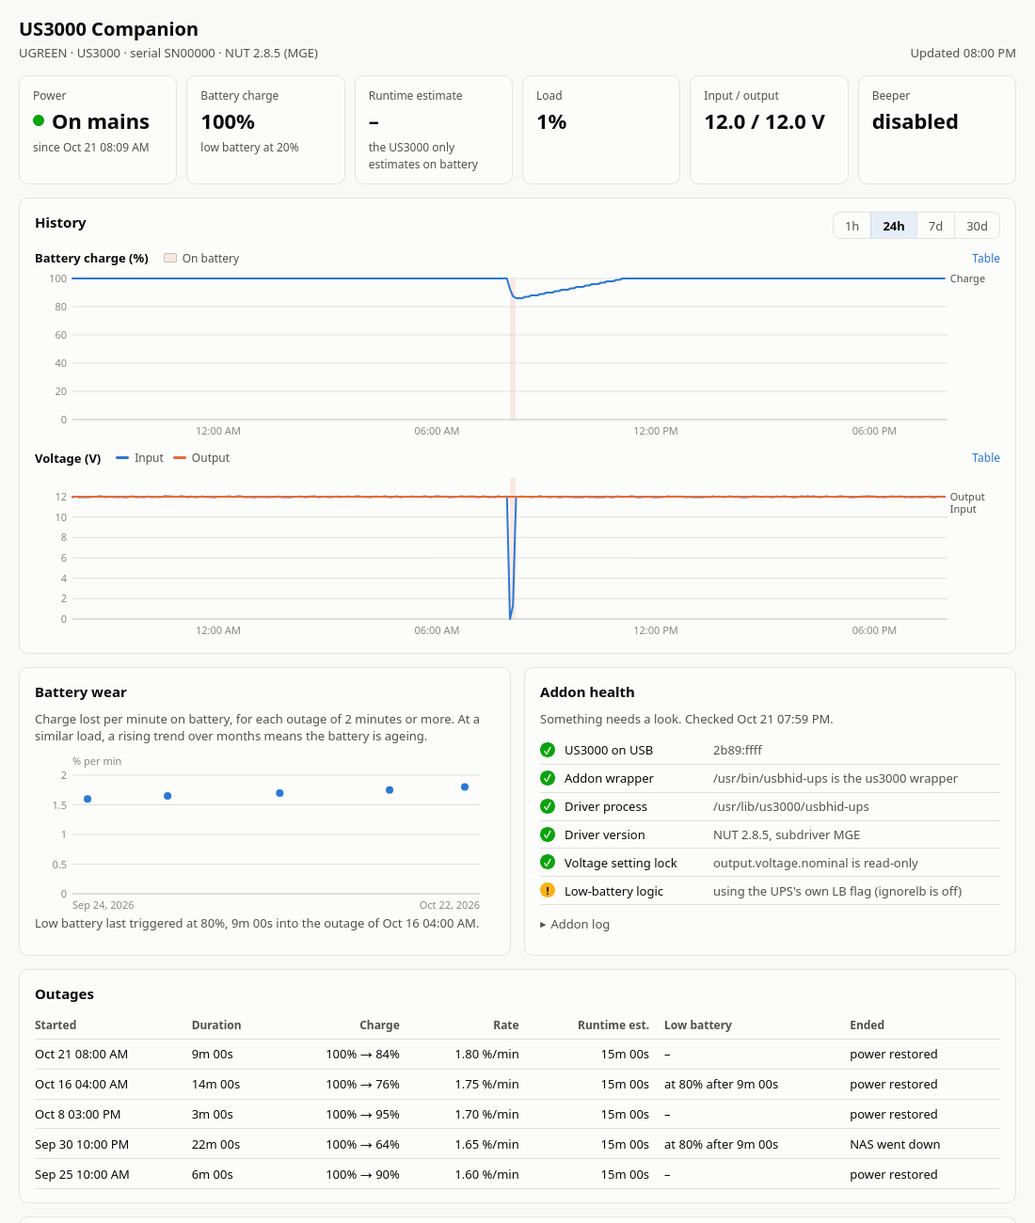
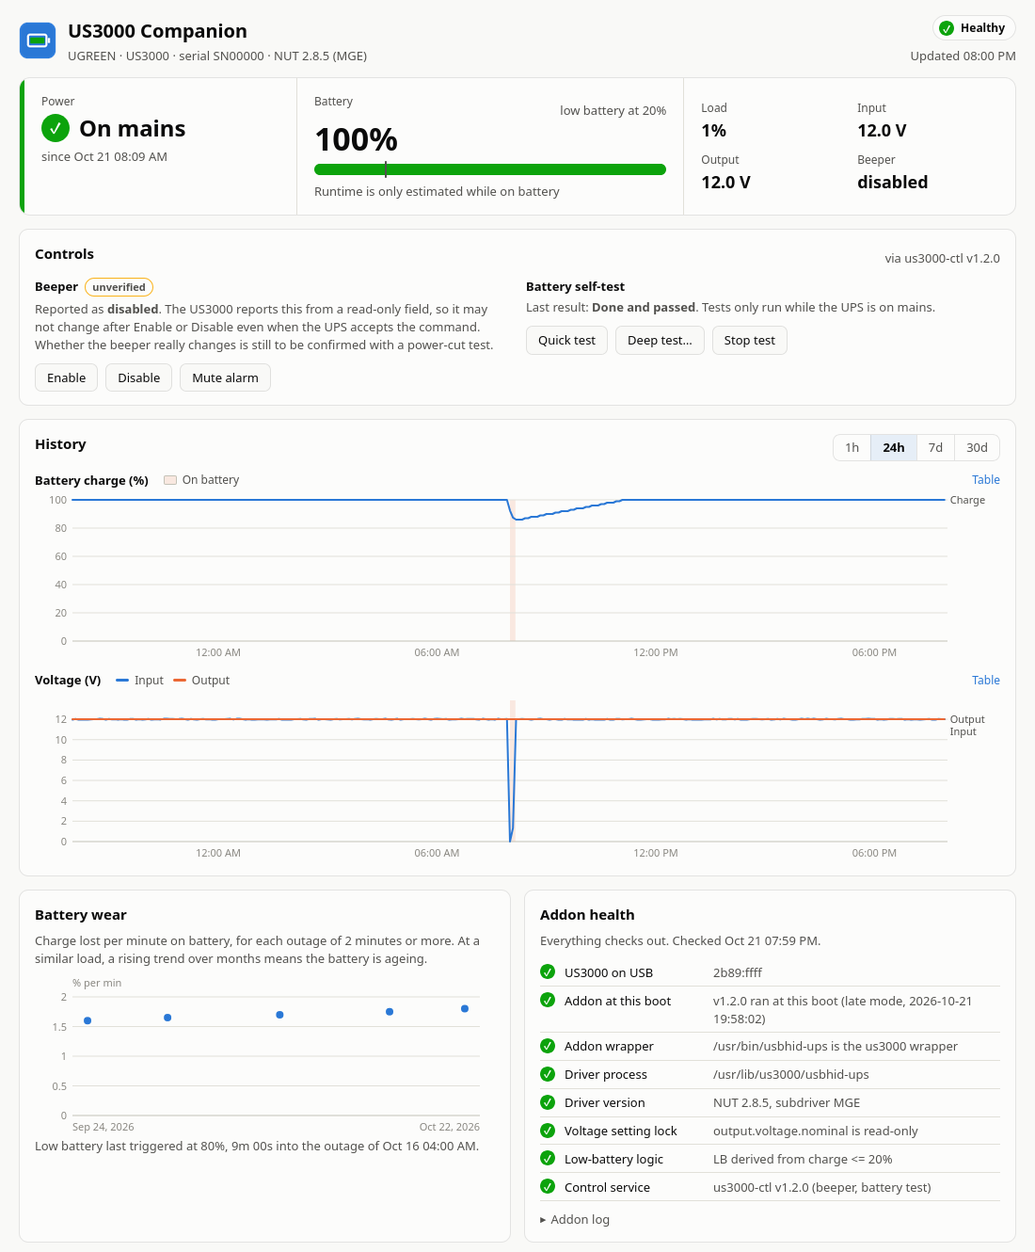
Companion 1.2.0: status hero, beeper caveat, first test result logged
- New status hero: power state with icon and accent, battery percentage
  with a gauge marking the low-battery threshold, runtime line, and compact
  load/voltage/beeper stats. Health badge in the header links to the health
  card; events get labelled colour badges.
- Beeper controls marked "unverified": on the US3000, NUT's MGE mapping
  writes the beeper to Battery.AudibleAlarmControl, which the firmware marks
  constant and reports from, so the status can't show a change.
- Collector logs a test result's first appearance (the US3000 only reports
  ups.test.result after its first test), seen live on 2026-10-22.
- README: v1.2.0 addon booted via RR and a quick self-test passed on real
  hardware; beeper finding documented; new screenshot.

Claude-Session: https://claude.ai/code/session_01K6FeL7PCCdrbSs5AQ2691g

diff --git a/companion/package/app/app.css b/companion/package/app/app.css
@@ -47,14 +47,66 @@ h3 { font-size: 13px; margin: 0; font-weight: 600; }
 .banner { background: var(--surface-1); border: 1px solid var(--critical); border-left-width: 4px;
   border-radius: 8px; padding: 10px 12px; margin: 0 0 14px; }
 
-.tiles { display: grid; grid-template-columns: repeat(auto-fit, minmax(150px, 1fr)); gap: 10px; margin-bottom: 14px; }
-.tile, .card { background: var(--surface-1); border: 1px solid var(--border); border-radius: 10px; }
-.tile { padding: 12px 14px; display: flex; flex-direction: column; gap: 2px; min-width: 0; }
-.tile .label { color: var(--text-secondary); font-size: 12px; }
-.tile .value { font-size: 22px; font-weight: 600; white-space: nowrap; overflow: hidden; text-overflow: ellipsis; }
-.tile .hint { font-size: 12px; }
-.state-line { display: flex; align-items: center; gap: 8px; }
-.dot { width: 12px; height: 12px; border-radius: 50%; background: var(--text-muted); flex: none; }
+.brand { display: flex; align-items: center; gap: 12px; }
+.brand img { border-radius: 9px; }
+.top-right { display: flex; flex-direction: column; align-items: flex-end; gap: 4px; }
+.health-chip { display: inline-flex; align-items: center; gap: 7px; padding: 4px 11px 4px 6px; border-radius: 999px;
+  border: 1px solid var(--border); background: var(--surface-1); color: var(--text-primary);
+  text-decoration: none; font-weight: 600; font-size: 12px; }
+.health-chip:hover { background: var(--accent-wash); }
+
+/* status hero */
+.hero { display: grid; grid-template-columns: minmax(200px, 1fr) minmax(240px, 1.4fr) minmax(220px, 1.2fr);
+  gap: 0; background: var(--surface-1); border: 1px solid var(--border); border-radius: 12px;
+  margin-bottom: 14px; overflow: hidden; }
+.hero > * { padding: 16px 18px; min-width: 0; }
+.hero > * + * { border-left: 1px solid var(--grid); }
+.hero .label, .hero dt { color: var(--text-secondary); font-size: 12px; }
+.hero-state { border-left: 5px solid var(--text-muted); display: flex; flex-direction: column; gap: 4px; }
+.hero-state[data-level="good"] { border-left-color: var(--good); }
+.hero-state[data-level="warning"] { border-left-color: var(--warning); }
+.hero-state[data-level="critical"] { border-left-color: var(--critical); }
+.state-line { display: flex; align-items: center; gap: 10px; }
+.state-icon { width: 30px; height: 30px; border-radius: 50%; flex: none; display: inline-flex; align-items: center;
+  justify-content: center; color: #fff; font-size: 16px; font-weight: 700; background: var(--text-muted); }
+.hero-state[data-level="good"] .state-icon { background: var(--good); }
+.hero-state[data-level="warning"] .state-icon { background: var(--warning); color: #0b0b0b; }
+.hero-state[data-level="critical"] .state-icon { background: var(--critical); }
+.state-text { font-size: 24px; font-weight: 650; line-height: 1.15; }
+.hero-battery .label-row { display: flex; justify-content: space-between; gap: 8px; }
+.hero-battery .big { font-size: 34px; font-weight: 650; line-height: 1.1; margin: 2px 0 8px; }
+.gauge { position: relative; height: 12px; border-radius: 6px; background: var(--grid); overflow: visible; }
+.gauge-fill { height: 100%; width: 0; border-radius: 6px; background: var(--good); transition: width .4s ease; }
+.gauge[data-level="warning"] .gauge-fill { background: var(--warning); }
+.gauge[data-level="critical"] .gauge-fill { background: var(--critical); }
+.gauge-low { position: absolute; top: -3px; bottom: -3px; width: 2px; background: var(--text-secondary); border-radius: 1px; }
+.hero-battery .hint { margin-top: 8px; }
+.hero-stats { margin: 0; display: grid; grid-template-columns: 1fr 1fr; gap: 10px 16px; align-content: center; }
+.hero-stats dd { margin: 2px 0 0; font-size: 18px; font-weight: 600; white-space: nowrap; overflow: hidden; text-overflow: ellipsis; }
+@media (max-width: 860px) {
+  .hero { grid-template-columns: 1fr 1fr; }
+  .hero-stats { grid-column: 1 / -1; grid-template-columns: repeat(4, 1fr); border-left: 0 !important; border-top: 1px solid var(--grid); }
+}
+@media (max-width: 520px) {
+  .hero { grid-template-columns: 1fr; }
+  .hero > * + * { border-left: 0; border-top: 1px solid var(--grid); }
+  .hero-stats { grid-template-columns: 1fr 1fr; }
+  .top-right { align-items: flex-start; }
+}
+.tag { display: inline-block; font-size: 11px; font-weight: 600; padding: 1px 7px; border-radius: 999px;
+  border: 1px solid var(--warning); color: var(--text-secondary); vertical-align: middle; margin-left: 4px; }
+
+/* event badges: colour plus a word, never colour alone */
+.badge { display: inline-block; font-size: 11px; font-weight: 650; padding: 1px 8px; border-radius: 999px;
+  border: 1px solid var(--border); white-space: nowrap; }
+.badge.good { border-color: var(--good); } .badge.warning { border-color: var(--warning); }
+.badge.critical { border-color: var(--critical); } .badge.info { border-color: var(--series-1); }
+.badge::before { content: ""; display: inline-block; width: 7px; height: 7px; border-radius: 50%; margin-right: 6px;
+  vertical-align: 1px; background: var(--text-muted); }
+.badge.good::before { background: var(--good); } .badge.warning::before { background: var(--warning); }
+.badge.critical::before { background: var(--critical); } .badge.info::before { background: var(--series-1); }
+
+.card { background: var(--surface-1); border: 1px solid var(--border); border-radius: 10px; }
 
 .card { padding: 14px 16px; margin-bottom: 14px; min-width: 0; }
 .card-head { display: flex; justify-content: space-between; align-items: center; gap: 10px; flex-wrap: wrap; margin-bottom: 6px; }
@@ -79,7 +131,8 @@ h3 { font-size: 13px; margin: 0; font-weight: 600; }
 .btn.busy { opacity: 0.6; }
 .confirm { margin-top: 10px; padding: 10px 12px; border: 1px solid var(--critical); border-radius: 8px; }
 .confirm p { margin: 0 0 8px; }
-.ctl-msg { margin: 10px 0 0; min-height: 1.2em; }
+.ctl-msg { margin: 10px 0 0; }
+.ctl-msg:empty { display: none; }
 .ctl-msg.ok { color: var(--good); } .ctl-msg.err { color: var(--critical); }
 .chart-block { margin-top: 10px; }
 .chart-title { display: flex; align-items: center; gap: 12px; flex-wrap: wrap; margin-bottom: 4px; }
@@ -115,8 +168,8 @@ td.num, th.num { text-align: right; padding-right: 16px; }
 .checks .d { color: var(--text-secondary); overflow-wrap: anywhere; }
 .icon { width: 16px; height: 16px; border-radius: 50%; display: inline-flex; align-items: center; justify-content: center;
   color: #fff; font-size: 11px; font-weight: 700; line-height: 1; margin-top: 1px; }
-.icon.ok { background: var(--good); } .icon.warning { background: var(--warning); color: #0b0b0b; } .icon.critical { background: var(--critical); }
-.events li { display: grid; grid-template-columns: 150px 150px 1fr; gap: 8px; padding: 5px 0; border-bottom: 1px solid var(--grid); }
+.icon.ok, .health-chip[data-level="ok"] .icon { background: var(--good); } .icon.warning, .health-chip[data-level="warning"] .icon { background: var(--warning); color: #0b0b0b; } .icon.critical, .health-chip[data-level="critical"] .icon { background: var(--critical); }
+.events li { display: grid; grid-template-columns: 150px 160px 1fr; align-items: center; gap: 8px; padding: 5px 0; border-bottom: 1px solid var(--grid); }
 .events .ts { color: var(--text-secondary); font-variant-numeric: tabular-nums; }
 .events .k { font-weight: 600; }
 details { margin-top: 10px; }

diff --git a/companion/package/app/app.js b/companion/package/app/app.js
@@ -10,6 +10,11 @@
     COMM_LOST: "UPS unreachable", COMM_OK: "UPS reachable", COLLECTOR_START: "Collector started",
     BEEPER: "Beeper", TEST_RESULT: "Battery test", CONTROL: "Command sent"
   };
+  var KIND_LEVEL = {
+    ON_MAINS: "good", COMM_OK: "good", ON_BATTERY: "warning", OUTAGE_CLOSED: "warning", COMM_LOST: "warning",
+    LOW_BATTERY: "critical", FORCED_SHUTDOWN: "critical", REPLACE_BATTERY: "critical",
+    CONTROL: "info", BEEPER: "info", TEST_RESULT: "info"
+  };
   var CMD_LABEL = {
     "beeper.enable": "Enable beeper", "beeper.disable": "Disable beeper", "beeper.mute": "Mute alarm",
     "test.battery.start.quick": "Quick battery test", "test.battery.start.deep": "Deep battery test",
@@ -278,14 +283,12 @@
       else if (ob && lb) setState("critical", "Low battery", "on battery for " + dur(b.now - b.since));
       else if (ob) setState("warning", "On battery", "for " + dur(b.now - b.since));
       else setState("good", "On mains", "since " + dt(b.since));
-      $("charge").textContent = fmtPct(num(v["battery.charge"]));
-      $("charge-low").textContent = "low battery at " + fmtPct(num(v["battery.charge.low"]));
-      $("runtime").textContent = v["battery.runtime"] != null ? dur(v["battery.runtime"]) : "–";
-      $("runtime-hint").textContent = v["battery.runtime"] != null ? "UPS estimate" : "the US3000 only estimates on battery";
+      renderBattery(num(v["battery.charge"]), num(v["battery.charge.low"]), v["battery.runtime"], ob);
       $("load").textContent = fmtPct(num(v["ups.load"]));
-      var vi = num(v["input.voltage"]), vo = num(v["output.voltage"]);
-      $("volts").textContent = (vi == null ? "–" : vi.toFixed(1)) + " / " + (vo == null ? "–" : vo.toFixed(1)) + " V";
+      $("vin").textContent = fmtV(num(v["input.voltage"]));
+      $("vout").textContent = fmtV(num(v["output.voltage"]));
       $("beeper").textContent = v["ups.beeper.status"] || "–";
+      $("beeper").title = "As reported by the UPS (a read-only field; see Controls)";
       $("device").textContent = [v["device.mfr"], v["device.model"], v["device.serial"] && "serial " + v["device.serial"],
         v["driver.version"] && "NUT " + v["driver.version"] + " (" + v["driver.parameter.subdriver"] + ")"]
         .filter(Boolean).join(" · ");
@@ -347,10 +350,27 @@
   $("deep-ask").addEventListener("click", function () { $("deep-confirm").hidden = false; });
   $("deep-cancel").addEventListener("click", function () { $("deep-confirm").hidden = true; });
 
+  var STATE_ICON = { good: "✓", warning: "!", critical: "×", pending: "…" };
   function setState(level, text, hint) {
     $("state").textContent = text;
     $("since").textContent = hint || "";
-    $("state-dot").style.background = cssVar("--" + level);
+    $("hero-state").setAttribute("data-level", level);
+    $("state-icon").textContent = STATE_ICON[level] || "";
+  }
+
+  function renderBattery(charge, low, runtime, ob) {
+    $("charge").textContent = fmtPct(charge);
+    $("charge-low").textContent = low != null ? "low battery at " + fmtPct(low) : "";
+    var g = $("gauge"), pct = charge == null ? 0 : Math.max(0, Math.min(100, charge));
+    $("gauge-fill").style.width = pct + "%";
+    g.setAttribute("aria-valuenow", pct);
+    g.setAttribute("data-level", low != null && charge != null
+      ? (charge <= low ? "critical" : charge <= low * 2 ? "warning" : "good") : "good");
+    $("gauge-low").style.left = (low != null ? Math.max(0, Math.min(100, low)) : 0) + "%";
+    $("gauge-low").hidden = low == null;
+    $("runtime-line").textContent = runtime != null
+      ? "About " + dur(runtime) + " of runtime left (UPS estimate)"
+      : ob ? "Runtime estimate not available yet" : "Runtime is only estimated while on battery";
   }
 
   function renderHealth(h) {
@@ -358,6 +378,10 @@
     if (!h) { $("health-summary").textContent = "Waiting for the collector's first check…"; return; }
     var words = { ok: "Everything checks out.", warning: "Something needs a look.", critical: "The addon isn't working as expected." };
     $("health-summary").textContent = words[h.level] + " Checked " + dt(h.checked_at) + ".";
+    var chip = { ok: ["✓", "Healthy"], warning: ["!", "Needs a look"], critical: ["×", "Problem"] }[h.level] || ["…", "Checking"];
+    $("health-chip").setAttribute("data-level", h.level);
+    $("health-chip-icon").textContent = chip[0];
+    $("health-chip-text").textContent = chip[1];
     var glyph = { ok: "✓", warning: "!", critical: "×" };
     h.checks.forEach(function (c) {
       var li = el("li");
@@ -420,7 +444,8 @@
     evts.filter(function (e) { return e.kind !== "COLLECTOR_START"; }).slice(0, 50).forEach(function (e) {
       var li = el("li");
       li.appendChild(el("span", { "class": "ts" }, dt(e.ts)));
-      li.appendChild(el("span", { "class": "k" }, KIND_LABEL[e.kind] || e.kind));
+      li.appendChild(el("span", {}, "")).appendChild(
+        el("span", { "class": "badge " + (KIND_LEVEL[e.kind] || "") }, KIND_LABEL[e.kind] || e.kind));
       li.appendChild(el("span", {}, e.detail || ""));
       ul.appendChild(li);
     });

diff --git a/companion/package/app/index.html b/companion/package/app/index.html
@@ -9,26 +9,47 @@
 <body>
 <main class="viz-root">
   <header class="top">
-    <div>
-      <h1>US3000 Companion</h1>
-      <p class="sub" id="device">Connecting to DSM's UPS service…</p>
+    <div class="brand">
+      <img src="images/icon-48.png" alt="" width="40" height="40">
+      <div>
+        <h1>US3000 Companion</h1>
+        <p class="sub" id="device">Connecting to DSM's UPS service…</p>
+      </div>
     </div>
-    <p class="sub" id="updated"></p>
+    <div class="top-right">
+      <a class="health-chip" id="health-chip" href="#health-card" data-level="pending">
+        <span class="icon" id="health-chip-icon" aria-hidden="true">…</span><span id="health-chip-text">Checking health</span>
+      </a>
+      <p class="sub" id="updated"></p>
+    </div>
   </header>
 
   <p class="banner" id="banner" hidden></p>
 
-  <section class="tiles" aria-label="Live status">
-    <div class="tile state" id="state-tile">
+  <section class="hero" aria-label="Live status">
+    <div class="hero-state" id="hero-state" data-level="pending">
       <span class="label">Power</span>
-      <span class="state-line"><span class="dot" id="state-dot" aria-hidden="true"></span><span class="value" id="state">–</span></span>
+      <div class="state-line">
+        <span class="state-icon" id="state-icon" aria-hidden="true"></span>
+        <span class="state-text" id="state">–</span>
+      </div>
       <span class="hint" id="since"></span>
     </div>
-    <div class="tile"><span class="label">Battery charge</span><span class="value" id="charge">–</span><span class="hint" id="charge-low"></span></div>
-    <div class="tile"><span class="label">Runtime estimate</span><span class="value" id="runtime">–</span><span class="hint" id="runtime-hint"></span></div>
-    <div class="tile"><span class="label">Load</span><span class="value" id="load">–</span></div>
-    <div class="tile"><span class="label">Input / output</span><span class="value" id="volts">–</span></div>
-    <div class="tile"><span class="label">Beeper</span><span class="value" id="beeper">–</span></div>
+    <div class="hero-battery">
+      <div class="label-row"><span class="label">Battery</span><span class="hint" id="charge-low"></span></div>
+      <div class="big" id="charge">–</div>
+      <div class="gauge" id="gauge" role="meter" aria-label="Battery charge" aria-valuemin="0" aria-valuemax="100">
+        <div class="gauge-fill" id="gauge-fill"></div>
+        <div class="gauge-low" id="gauge-low" title="Low-battery threshold"></div>
+      </div>
+      <div class="hint" id="runtime-line"></div>
+    </div>
+    <dl class="hero-stats">
+      <div><dt>Load</dt><dd id="load">–</dd></div>
+      <div><dt>Input</dt><dd id="vin">–</dd></div>
+      <div><dt>Output</dt><dd id="vout">–</dd></div>
+      <div><dt>Beeper</dt><dd id="beeper">–</dd></div>
+    </dl>
   </section>
 
   <section class="card" id="controls">
@@ -38,8 +59,10 @@
     </div>
     <div class="ctl-grid">
       <div class="ctl-group">
-        <h3>Beeper</h3>
-        <p class="note">Currently <strong id="ctl-beeper">–</strong>. When enabled, the UPS beeps on power loss and alarms.</p>
+        <h3>Beeper <span class="tag" title="Not yet confirmed on real hardware">unverified</span></h3>
+        <p class="note">Reported as <strong id="ctl-beeper">–</strong>. The US3000 reports this from a
+          read-only field, so it may not change after Enable or Disable even when the UPS accepts the
+          command. Whether the beeper really changes is still to be confirmed with a power-cut test.</p>
         <div class="btn-row">
           <button class="btn" data-cmd="beeper.enable">Enable</button>
           <button class="btn" data-cmd="beeper.disable">Disable</button>
@@ -98,7 +121,7 @@
       <p class="note" id="lb-note"></p>
     </section>
     <section class="card">
-      <h2>Addon health</h2>
+      <h2 id="health-card">Addon health</h2>
       <p class="note" id="health-summary"></p>
       <ul class="checks" id="checks"></ul>
       <details id="addon-log-box"><summary>Addon log</summary><pre id="addon-log"></pre></details>

diff --git a/companion/tests/make_preview.py b/companion/tests/make_preview.py
@@ -48,14 +48,16 @@ for o in outs:
                "after %dm 00s, charge %d%%" % (o[1], mn) if o[1] != 22 else "NAS went down while on battery"))
 con.executemany("INSERT INTO events(ts,kind,detail) VALUES(?,?,?)", ev)
 ucore.meta_set(con, "last_poll", now - 3)
-ucore.meta_set(con, "health", {"level": "warning", "checked_at": now - 20, "addon_log": None, "checks": [
+ucore.meta_set(con, "health", {"level": "warning" if os.environ.get("PREVIEW_WARN") else "ok", "checked_at": now - 20, "addon_log": None, "checks": [
     {"name": "US3000 on USB", "level": "ok", "detail": "2b89:ffff"},
     {"name": "Addon at this boot", "level": "ok", "detail": "v1.2.0 ran at this boot (late mode, 2026-10-21 19:58:02)"},
     {"name": "Addon wrapper", "level": "ok", "detail": "/usr/bin/usbhid-ups is the us3000 wrapper"},
     {"name": "Driver process", "level": "ok", "detail": "/usr/lib/us3000/usbhid-ups"},
     {"name": "Driver version", "level": "ok", "detail": "NUT 2.8.5, subdriver MGE"},
     {"name": "Voltage setting lock", "level": "ok", "detail": "output.voltage.nominal is read-only"},
-    {"name": "Low-battery logic", "level": "warning", "detail": "using the UPS's own LB flag (ignorelb is off)"},
+    {"name": "Low-battery logic", "level": "warning", "detail": "using the UPS's own LB flag (ignorelb is off)"}
+    if os.environ.get("PREVIEW_WARN") else
+    {"name": "Low-battery logic", "level": "ok", "detail": "LB derived from charge <= 20%"},
     {"name": "Control service", "level": "ok", "detail": "us3000-ctl v1.2.0 (beeper, battery test)"}]})
 con.commit()
 
@@ -64,6 +66,11 @@ ucore.nut_list_vars = lambda: {"ups.status": "OL DISCHRG", "battery.charge": "10
                                "ups.load": "1", "ups.beeper.status": "disabled", "device.mfr": "UGREEN",
                                "device.model": "US3000", "device.serial": "SN00000", "driver.version": "2.8.5",
                                "driver.parameter.subdriver": "MGE", "ups.test.result": "Done and passed"}
+if os.environ.get("PREVIEW_STATE") == "ob":   # render the on-battery look too
+    _live = ucore.nut_list_vars()
+    _live.update({"ups.status": "OB DISCHRG", "battery.charge": "34", "battery.runtime": "540",
+                  "input.voltage": "0.0"})
+    ucore.nut_list_vars = lambda: _live
 ucore.ctl_call = lambda req, timeout=20.0, path=None: {
     "ok": True, "version": "1.2.0", "allowed": sorted(webapi.CONTROL_CMDS)}
 resp = {"status": webapi.handle({"action": "status"}, db, now)[1],
@@ -81,7 +88,9 @@ stub = ("<script>window.__R=%s;window.fetch=function(u){var p=new URLSearchParam
 html = html.replace('<link rel="stylesheet" href="app.css">',
                     "<style>%s</style>" % open(os.path.join(app, "app.css")).read())
 html = html.replace('<script src="app.js"></script>', stub + "<script>%s</script>" % open(os.path.join(app, "app.js")).read())
-out = os.path.join(HERE, "preview")
+out = os.path.join(HERE, "preview" + ("-ob" if os.environ.get("PREVIEW_STATE") == "ob" else ""))
 os.makedirs(out, exist_ok=True)
+import subprocess  # noqa: E402
+subprocess.run([sys.executable, "-I", os.path.join(HERE, "..", "tools", "make_icons.py"), out], check=True)
 open(os.path.join(out, "index.html"), "w").write(html)
 print(os.path.join(out, "index.html"))

diff --git a/companion/tests/test_backend.py b/companion/tests/test_backend.py
@@ -203,8 +203,19 @@ for beep, test in [("disabled", "No test initiated"), ("disabled", "No test init
     c4.query = lambda st=st: st
     c4.poll(); clock.t += 5
 kinds = [(r["kind"], r["detail"]) for r in con.execute("SELECT kind, detail FROM events WHERE kind IN ('BEEPER','TEST_RESULT') ORDER BY id")]
-check(kinds == [("BEEPER", "disabled → enabled"), ("TEST_RESULT", "No test initiated → In progress"), ("TEST_RESULT", "In progress → Done and passed")],
+check(kinds == [("TEST_RESULT", "none → No test initiated"), ("BEEPER", "disabled → enabled"), ("TEST_RESULT", "No test initiated → In progress"), ("TEST_RESULT", "In progress → Done and passed")],
       "beeper/test changes recorded once each: %s" % kinds)
+# The US3000 only reports ups.test.result after its first test (seen live 2026-10-22).
+st = ups("OL", 100); st["ups.beeper.status"] = "enabled"; st.pop("ups.test.result", None)
+con.execute("DELETE FROM meta WHERE key='last:ups.test.result'")
+for result in (None, None, "Done and passed"):
+    st2 = dict(st)
+    if result:
+        st2["ups.test.result"] = result
+    c4.query = lambda st2=st2: st2
+    c4.poll(); clock.t += 5
+last = con.execute("SELECT detail FROM events WHERE kind='TEST_RESULT' ORDER BY id DESC LIMIT 1").fetchone()["detail"]
+check(last == "none → Done and passed", "first-ever test result is logged (%s)" % last)
 con.close()
 
 print("\n%d failure(s)" % len(fails))

diff --git a/companion/package/bin/collector.py b/companion/package/bin/collector.py
@@ -124,8 +124,11 @@ class Collector:
                            % (_dur(now - o["start_ts"]), _fmt(charge)))
 
         # Beeper and self-test changes, whoever caused them (the app, the UPS itself).
-        for var, kind in (("ups.beeper.status", "BEEPER"), ("ups.test.result", "TEST_RESULT")):
-            val = v.get(var)
+        # The US3000 only reports ups.test.result after its first test, so "absent"
+        # counts as a value: absent -> "Done and passed" is a result worth logging.
+        for var, kind, absent in (("ups.beeper.status", "BEEPER", None),
+                                  ("ups.test.result", "TEST_RESULT", "none")):
+            val = v.get(var, absent)
             prev = ucore.meta_get(self.con, "last:" + var)
             if val is not None and val != prev:
                 if prev is not None:

diff --git a/README.md b/README.md
@@ -52,22 +52,31 @@ US3000 reporting USB ID `2b89:ffff`. Tested so far:
 - DSM's UPS service with the 2.8.5 driver, including a real power cut (on
   battery, then back on mains);
 - the companion package installed through Package Center;
-- the addon package run through RR's own `installAddon` code, followed by its boot
-  step against a copy of DSM's files.
+- **the v1.2.0 addon installed through the RR menu and booted** (2026-10-22): the
+  driver and the `us3000-ctl` service were installed at boot, and the status file
+  carried that boot's ID;
+- **the companion's controls on real hardware:** a quick battery self-test ran
+  and reported "Done and passed".
 
 **Known issue in v1.0.1 and v1.1.0:** installed through the RR menu, the addon
 couldn't find its driver at boot (`bundled driver … missing` in
 `/var/log/rr-us3000.log`). RR only copies an addon's `root/` folder into the boot
 image, and those releases packaged the driver outside it. This is fixed in v1.2.0.
 
-**Not yet tested:** booting a real system with the v1.2.0 addon, the companion's
-controls on real hardware, the Task Scheduler method for systems without RR
-(offline tests only), and a full low-battery shutdown.
+**Beeper, unverified:** the UPS accepts `beeper.enable`, but `ups.beeper.status`
+keeps reading "disabled". The US3000 has two beeper fields. NUT's MGE mapping
+writes to the first, `Battery.AudibleAlarmControl`, which the firmware marks
+read-only and also reports from. The writable one, `PowerSummary.AudibleAlarmControl`,
+can't be read back. Whether the beeper really changes still needs a power-cut test
+by ear.
+
+**Not yet tested:** the beeper (above), the Task Scheduler method for systems
+without RR (offline tests only), and a full low-battery shutdown.
 
 | Part | What it is |
 |---|---|
 | [`addon/`](addon) | Gets DSM's UPS service to drive the US3000 (RR addon, or Task Scheduler boot task) |
-| [`companion/`](companion) | DSM package: live status, outage history, battery-wear trend, addon health |
+| [`companion/`](companion) | DSM package: live status, controls (beeper, battery self-test), outage history, battery-wear trend, addon health |
 
 ![US3000 Companion](docs/companion.png)
 *(Screenshot with simulated data.)*
@@ -216,7 +225,7 @@ monitored for the first minute or two of each boot.
 It needs no extra packages (it uses DSM's built-in Python 3.8). Raw readings are
 kept for 30 days and outage records are kept forever.
 
-**Controls (companion 1.1.0 + addon 1.2.0).** The app can send these commands to
+**Controls (companion 1.1.0+ with addon 1.2.0+).** The app can send these commands to
 the UPS:
 
 | Control | Command | Rules |
